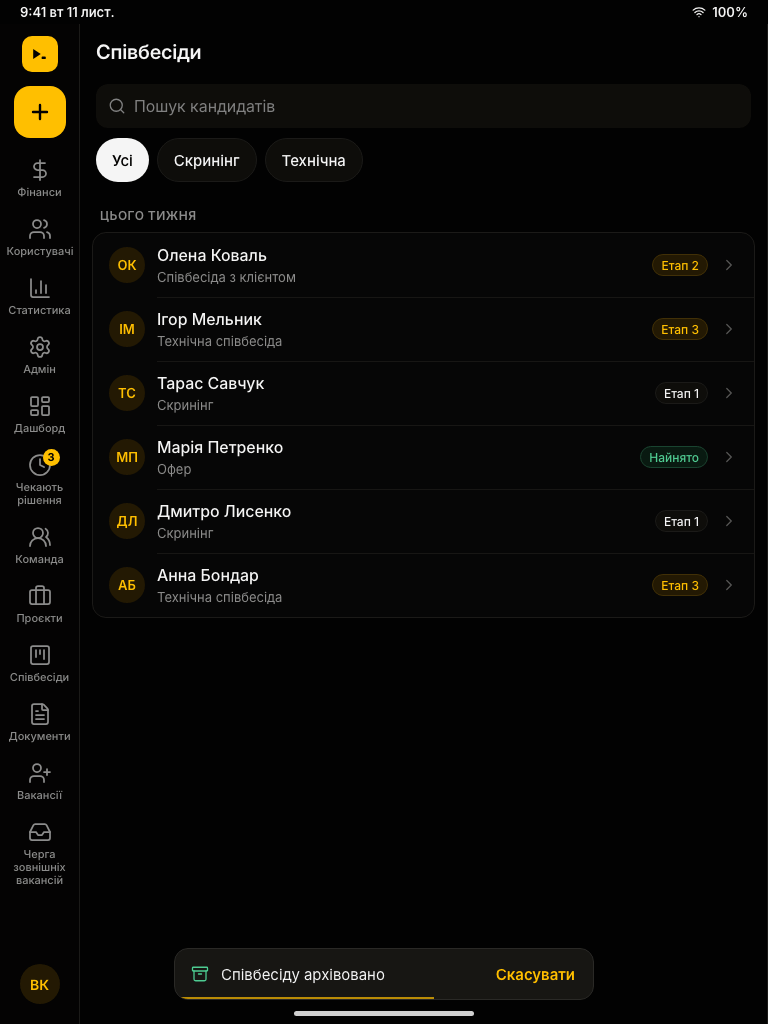
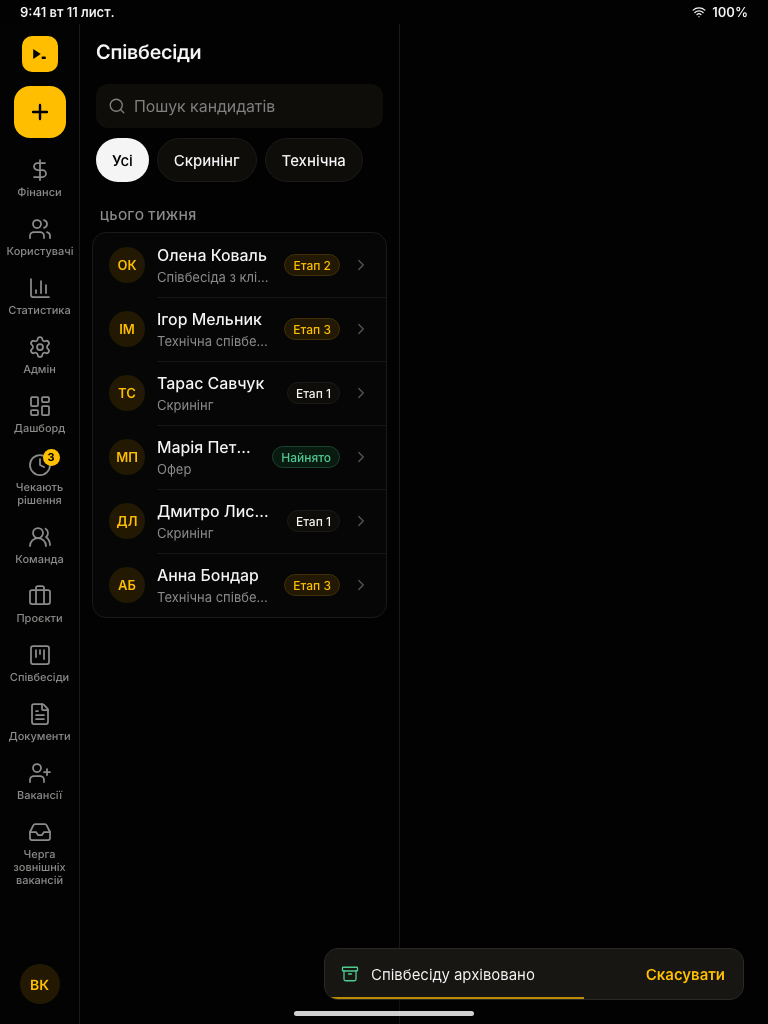
wip: docs(design): one pill corner, draft frames off the phone (R5 D)
Tablet and desktop: pill and toasts share the bottom-right corner, toasts stack above. New drafts-desktop-1440 and check-dialog-1024.

diff --git a/docs/design/screens/_foundation/shell-v2.md b/docs/design/screens/_foundation/shell-v2.md
@@ -218,17 +218,17 @@ tab bar holds **4 destinations + «Ще»**. «Ще» holds everything else, gro
 The draft state model is the same everywhere (`foundation.md` §11 money drafts); only the placement
 changes.
 
-| Concern                                  | Phone (< 640)                                                                                                                                                                                                                                                               | Tablet (640–1023)                                                                                       | Desktop (≥ 1024)                                                                                                                                                           |
-| ---------------------------------------- | --------------------------------------------------------------------------------------------------------------------------------------------------------------------------------------------------------------------------------------------------------------------------- | ------------------------------------------------------------------------------------------------------- | -------------------------------------------------------------------------------------------------------------------------------------------------------------------------- |
-| Where a new draft starts                 | The FAB (on Фінанси it is «Нова транзакція»), or the quick-add menu elsewhere                                                                                                                                                                                               | The rail «+» (top of the rail), the same action                                                         | The header primary «Нова транзакція» (`C`), or Cmd+K → Дії                                                                                                                 |
-| The start control with unresolved drafts | Never blocks: the FAB keeps «+», gains a red dot (the count from two) and the name «Нова транзакція, 1 чернетка потребує уваги»; a tap opens the quick-add sheet with the draft rows on top and «Нова транзакція» enabled under them (`primitives-v2/quick-add-drafts-375`) | Same rule on the rail «+»: the dot, the name, and the same chooser as a popover from the rail           | The header «Нова транзакція» keeps its label and gains the dot and the name; it opens the same chooser as a popover under the button (`primitives-v2/drafts-desktop-1440`) |
-| Form container                           | Large sheet (`quick-add-txn-*`) or the pushed page (`form-money-375`)                                                                                                                                                                                                       | Side panel, 400 px, the same `moneyBody()` (`primitives-v2/sheet-panel-768`)                            | Side panel, 420 at 1024 / 480 at 1440 (`sheet-panel-1024`, `sheet-panel-1440`)                                                                                             |
-| The pill slot                            | Above the tab bar, left of the FAB (§2 floating-layer stacking)                                                                                                                                                                                                             | The toast slot: centred 24 px above the bottom edge, 420 wide, right of the rail; toasts stack above it | The toast slot: bottom-left of the main area next to the sidebar; toasts stack above it                                                                                    |
-| Pinned draft rows                        | Top of the Фінанси list                                                                                                                                                                                                                                                     | Top of the Фінанси list pane                                                                            | Top of the Фінанси table, above the first group                                                                                                                            |
-| «Перевірити список» (form is open)       | The check sheet «Нові записи» over the kept form sheet                                                                                                                                                                                                                      | A centred 560 px dialog «Нові записи» over the side panel; the panel stays mounted and keeps the draft  | The same 560 px dialog over the side panel                                                                                                                                 |
-| Focus after the check closes             | Back to «Перевірити список»                                                                                                                                                                                                                                                 | Back to «Перевірити список» in the panel                                                                | Same                                                                                                                                                                       |
-| Receipt switch (empty receipt)           | «Файл» / «Посилання», 44 px segmented above the tile                                                                                                                                                                                                                        | The same switch, 44 px, in the panel (`sheet-panel-768`)                                                | The same switch; 36 px on `(pointer: fine)`, 44 on `(pointer: coarse)`                                                                                                     |
-| Receipt, effective currency USDT         | The explorer-link field only, no switch (`form-receipt-usdt-empty-375`)                                                                                                                                                                                                     | Same                                                                                                    | Same                                                                                                                                                                       |
+| Concern                                  | Phone (< 640)                                                                                                                                                                                                                                                               | Tablet (640–1023)                                                                                                                    | Desktop (≥ 1024)                                                                                                                                                           |
+| ---------------------------------------- | --------------------------------------------------------------------------------------------------------------------------------------------------------------------------------------------------------------------------------------------------------------------------- | ------------------------------------------------------------------------------------------------------------------------------------ | -------------------------------------------------------------------------------------------------------------------------------------------------------------------------- |
+| Where a new draft starts                 | The FAB (on Фінанси it is «Нова транзакція»), or the quick-add menu elsewhere                                                                                                                                                                                               | The rail «+» (top of the rail), the same action                                                                                      | The header primary «Нова транзакція» (`C`), or Cmd+K → Дії                                                                                                                 |
+| The start control with unresolved drafts | Never blocks: the FAB keeps «+», gains a red dot (the count from two) and the name «Нова транзакція, 1 чернетка потребує уваги»; a tap opens the quick-add sheet with the draft rows on top and «Нова транзакція» enabled under them (`primitives-v2/quick-add-drafts-375`) | Same rule on the rail «+»: the dot, the name, and the same chooser as a popover from the rail                                        | The header «Нова транзакція» keeps its label and gains the dot and the name; it opens the same chooser as a popover under the button (`primitives-v2/drafts-desktop-1440`) |
+| Form container                           | Large sheet (`quick-add-txn-*`) or the pushed page (`form-money-375`)                                                                                                                                                                                                       | Side panel, 400 px, the same `moneyBody()` (`primitives-v2/sheet-panel-768`)                                                         | Side panel, 420 at 1024 / 480 at 1440 (`sheet-panel-1024`, `sheet-panel-1440`)                                                                                             |
+| The pill slot                            | Above the tab bar, left of the FAB (§2 floating-layer stacking)                                                                                                                                                                                                             | Bottom-right, 24 px from both edges, 320 wide (`primitives-v2/upload-pill-768`); toasts (420 wide) stack above it in the same corner | Bottom-right of the main area, 24 px from both edges (`primitives-v2/drafts-desktop-1440`); toasts stack above it in the same corner                                       |
+| Pinned draft rows                        | Top of the Фінанси list                                                                                                                                                                                                                                                     | Top of the Фінанси list pane                                                                                                         | Top of the Фінанси table: one full-width 40 px row with the state and «Відкрити» (`primitives-v2/drafts-desktop-1440`)                                                     |
+| «Перевірити список» (form is open)       | The check sheet «Нові записи» over the kept form sheet                                                                                                                                                                                                                      | A centred 560 px dialog «Нові записи» over the side panel; the panel stays mounted and keeps the draft                               | The same 560 px dialog over the side panel (`primitives-v2/check-dialog-1024`)                                                                                             |
+| Focus after the check closes             | Back to «Перевірити список»                                                                                                                                                                                                                                                 | Back to «Перевірити список» in the panel                                                                                             | Same                                                                                                                                                                       |
+| Receipt switch (empty receipt)           | «Файл» / «Посилання», 44 px segmented above the tile                                                                                                                                                                                                                        | The same switch, 44 px, in the panel (`sheet-panel-768`)                                                                             | The same switch; 36 px on `(pointer: fine)`, 44 on `(pointer: coarse)`                                                                                                     |
+| Receipt, effective currency USDT         | The explorer-link field only, no switch (`form-receipt-usdt-empty-375`)                                                                                                                                                                                                     | Same                                                                                                                                 | Same                                                                                                                                                                       |
 
 ---
 
